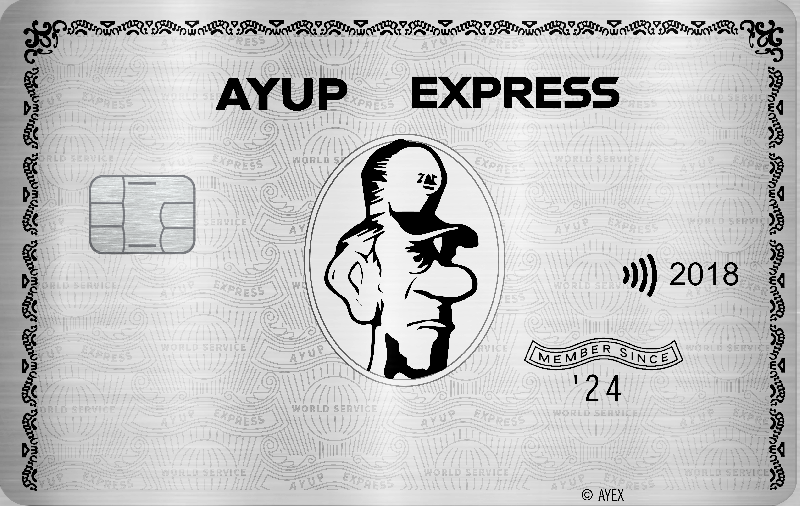
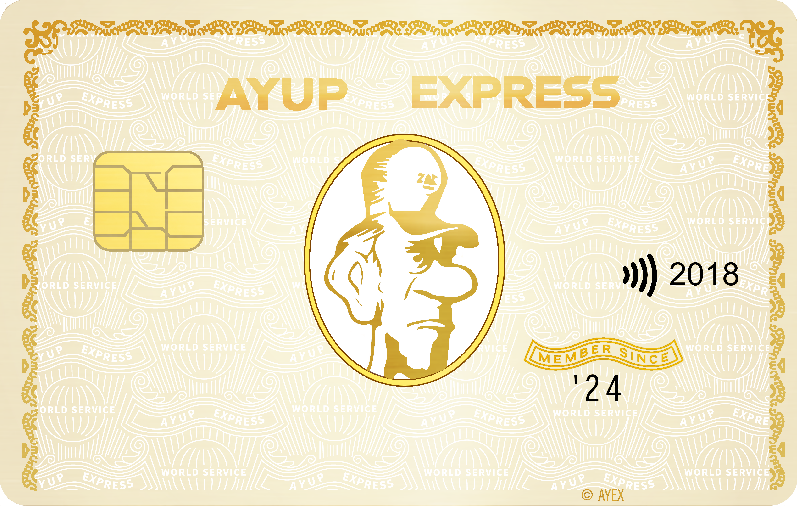
credit card caashback

diff --git a/src/entities/levelRequest.ts b/src/entities/levelRequest.ts
@@ -6,6 +6,7 @@ import WireTransaction from "../models/transaction/WireTransaction";
 import User from "../models/user/User";
 import WireRejectionError from "../models/error/WireRejectionError";
 import Service from "../services/Service";
+import Item from "../models/item/Item";
 
 function parseLid(memo: string | null): string | null {
     if (!memo) return null;
@@ -34,16 +35,51 @@ null,
         }
         return;
     },
-    async (confirmation: MessageComponentInteraction, _: User, transaction: WireTransaction) => {
+    async (confirmation: MessageComponentInteraction, fromUser: User, transaction: WireTransaction) => {
         const service = Service.getInstance();
 
         const levelId = parseLid(transaction.memo!)!;
         const lvlReq = await service.transactions.contributeToPool(levelId, -transaction.balance_change);
 
+        // cashback
+        const inventory = await service.users.getUserInventory(fromUser.uid);
+        const currentCard = inventory.find((x: Item) => x.type === "credit_card");
+
+        let cashbackAmount = 0;
+        if (currentCard) {
+            let cashback = 0;
+            switch (currentCard.item_id) {
+                case '010': // green
+                    cashback = 0.01;
+                    break;
+                case '020': // gold
+                    cashback = 0.02;
+                    break;
+                case '030': // rose gold
+                    cashback = 0.03;
+                    break;
+                case '040': // white gold
+                    cashback = 0.04;
+                    break;
+                case '050': // platinum
+                    cashback = 0.05;
+                    break;
+                case '060': // centurion
+                    cashback = 0.1;
+                    break;
+                default:
+                    cashback = 0;
+            }
+            cashbackAmount = Math.floor(-transaction.balance_change * cashback);
+            fromUser = (await service.users.getUser(fromUser.uid))!;
+            await service.users.updateUser(fromUser.uid, {balance: fromUser.balance + cashbackAmount});
+        }
+
         const successEmbed = confirmedEmbed(diffBlock(`+ WIRE SUCCESSFUL +\n$${dollarize(-transaction.balance_change)} contributed to the request bounty for the level with ID ${levelId}.`) + diffBlock(
             `  $${dollarize(lvlReq.bounty - (-transaction.balance_change))} previous bounty\n` +
             `+ $${dollarize(-transaction.balance_change)} wire amount\n` +
-            `= $${dollarize(lvlReq.bounty)} current bounty\n`
+            `= $${dollarize(lvlReq.bounty)} current bounty\n` +
+            (cashbackAmount > 0 ? `\nYou received $${dollarize(cashbackAmount)} cashback!` : "")
         ), config.colors.blue);
 
         await confirmation.update({

diff --git a/src/utils/helpers.ts b/src/utils/helpers.ts
@@ -179,7 +179,8 @@ async function getItemImage(item: Item, username: string | null, filename: strin
                 "020": "black",
                 "030": "black",
                 "040": "black",
-                "050": "#A89682",
+                "050": "black",
+                "060": "#A89682",
             };
 
             const loadedImage = await loadImage(`./assets/items/${item.item_id}.png`);

diff --git a/src/commands/user/start.ts b/src/commands/user/start.ts
@@ -74,6 +74,6 @@ const tutorialEmbeds = [
         .setImage(`https://i.imgur.com/OLp1p3a.png`)
         .setFooter({text: 'Page 5/5'}),
 
-]
+];
 
 module.exports = command;
